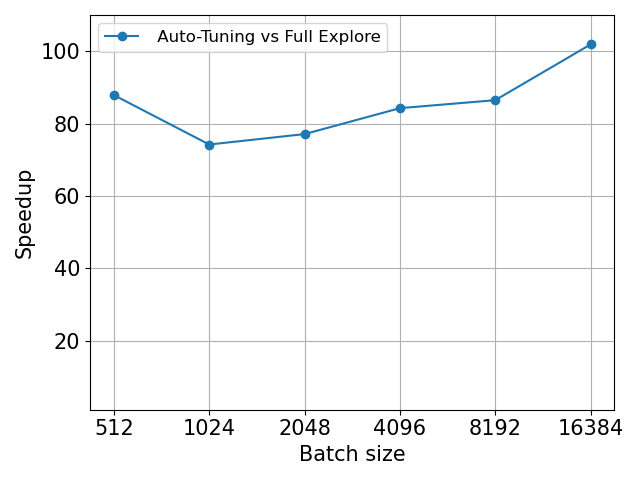
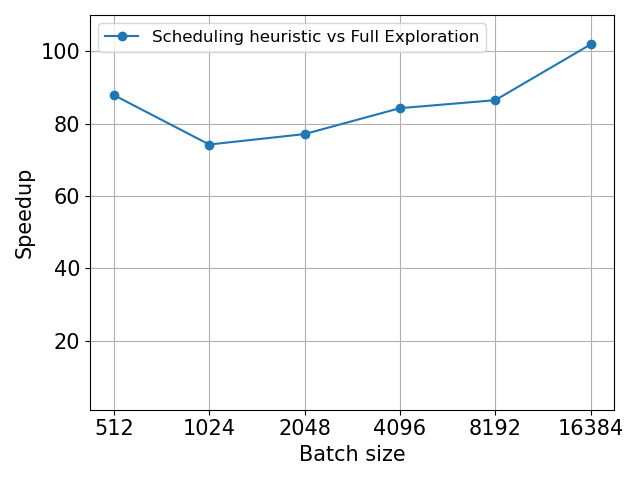
1. Update results captions and images 2. Merge schedule heuristic vs 4060 schedule graph

Changed region(s): [[0.2188, 0.0625, 0.75, 0.125]]

diff --git a/docs/SOSP 2024/results.tex b/docs/SOSP 2024/results.tex
@@ -182,16 +182,9 @@ These results show that our heuristic is able to quickly find schedules that are
 
 \begin{figure}[htb]
   \centering
-  \includegraphics[width=0.75\linewidth]{figures/geomean_speedup_T400_4060_vs_T400.png}
-  \caption{Geomean speedup of schedule found by exploration heuristic vs best 4060 schedule on NVIDIA RTX 4060 and NVIDIA T400 across batch sizes}
+  \includegraphics[width=0.75\linewidth]{figures/geomean_speedup_T400_4060_vs_T400_vs_MI2160.png}
+  \caption{Geomean speedup of schedule found by exploration heuristic vs best 4060 schedule on NVIDIA RTX 4060, NVIDIA T400 and AMD MI2160 across batch sizes}
   \label{Fig:AutotuningSpeedupvs4060Sched}
-\end{figure}
-
-\begin{figure}[htb]
-  \centering
-  \includegraphics[width=0.75\linewidth]{figures/geomean_speedup_AMDMI2160_4060_vs_MI2160.png}
-  \caption{Speedup of schedule exploration heuristic vs best 4060 schedule on MI210}
-  \label{Fig:AMD_MI210_ATHeuristicVs4060Sched_speedup}
 \end{figure}
 
 \begin{figure}[htb]
@@ -214,7 +207,7 @@ These results show that our heuristic is able to quickly find schedules that are
 % \begin{itemize}
 %   \item \Treebeard{} is able to compile code to AMD GPUs. We run generated code on an AMD MI210 GPU.
 %   \item None of the other systems we compare against support running on AMD GPUs. This shows the portability of \Treebeard{}.
-%   \item The speedup of the heuristic schedule vs the best 4060 schedule when run on the MI210 is shown in Figure \ref{Fig:AMD_MI210_ATHeuristicVs4060Sched_speedup}.
+%   \item The speedup of the heuristic schedule vs the best 4060 schedule when run on the MI210 is shown in Figure \ref{Fig:AutotuningSpeedupvs4060Sched}.
 %   \item We see that the geomean speedup over all benchmarks is 1.5$\times$ at batch size 16k.
 %   \item The maximum speedup is 2$\times$ for the \op{letters} benchmark at batch size 16k.
 % \end{itemize}

diff --git a/results/python/analyze_gpu_speedups_results.py b/results/python/analyze_gpu_speedups_results.py
@@ -214,15 +214,12 @@ line_graph_plotter.plot_geomean_speedups_over_batch_size(results_t400_df, 'TBKer
 line_graph_plotter.plot_geomean_speedups_over_batch_size(results_t400_df, 'TB(AT)', ['RAPIDS(Total)'], ['RAPIDS(total)'])
 line_graph_plotter.save_plot()
 
-line_graph_plotter = LineGraphPlotter('T400', '4060_vs_T400', lower_lim=1)
+line_graph_plotter = LineGraphPlotter('T400', '4060_vs_T400_vs_MI2160', lower_lim=1)
 line_graph_plotter.plot_geomean_speedups_over_batch_size(results_t400_df, 'TBKernel(AT)', ['TBKernel(4060)'], ['Scheduling heuristic(T400) vs Best 4060 schedule'])
 line_graph_plotter.plot_geomean_speedups_over_batch_size(results_4060_df, 'TBKernel(AT)', ['TBKernel'], ['Scheduling heuristic(4060) vs Best 4060 schedule'])
+line_graph_plotter.plot_geomean_speedups_over_batch_size(results_amdmi2160_df, 'TBKernel(MI2160)', ['TBKernel(4060)'], ['Scheduling heuristic(MI2160) vs Best 4060 schedule'])
 line_graph_plotter.save_plot()
 
 line_graph_plotter = LineGraphPlotter('4060', 'full_exp_vs_at', lower_lim=1, upper_lim=110)
-line_graph_plotter.plot_geomean_speedups_over_batch_size(fullexp_vs_at_df, 'AT', ['FullExplore'], [' Auto-Tuning vs Full Explore'])
-line_graph_plotter.save_plot()
-
-line_graph_plotter = LineGraphPlotter('AMDMI2160', '4060_vs_MI2160', lower_lim=1, upper_lim=1.6, round_up=False)
-line_graph_plotter.plot_geomean_speedups_over_batch_size(results_amdmi2160_df, 'TBKernel(MI2160)', ['TBKernel(4060)'], ['Scheduling heuristic(MI2160) vs Best 4060 schedule'])
+line_graph_plotter.plot_geomean_speedups_over_batch_size(fullexp_vs_at_df, 'AT', ['FullExplore'], ['Scheduling heuristic vs Full Exploration'])
 line_graph_plotter.save_plot()
